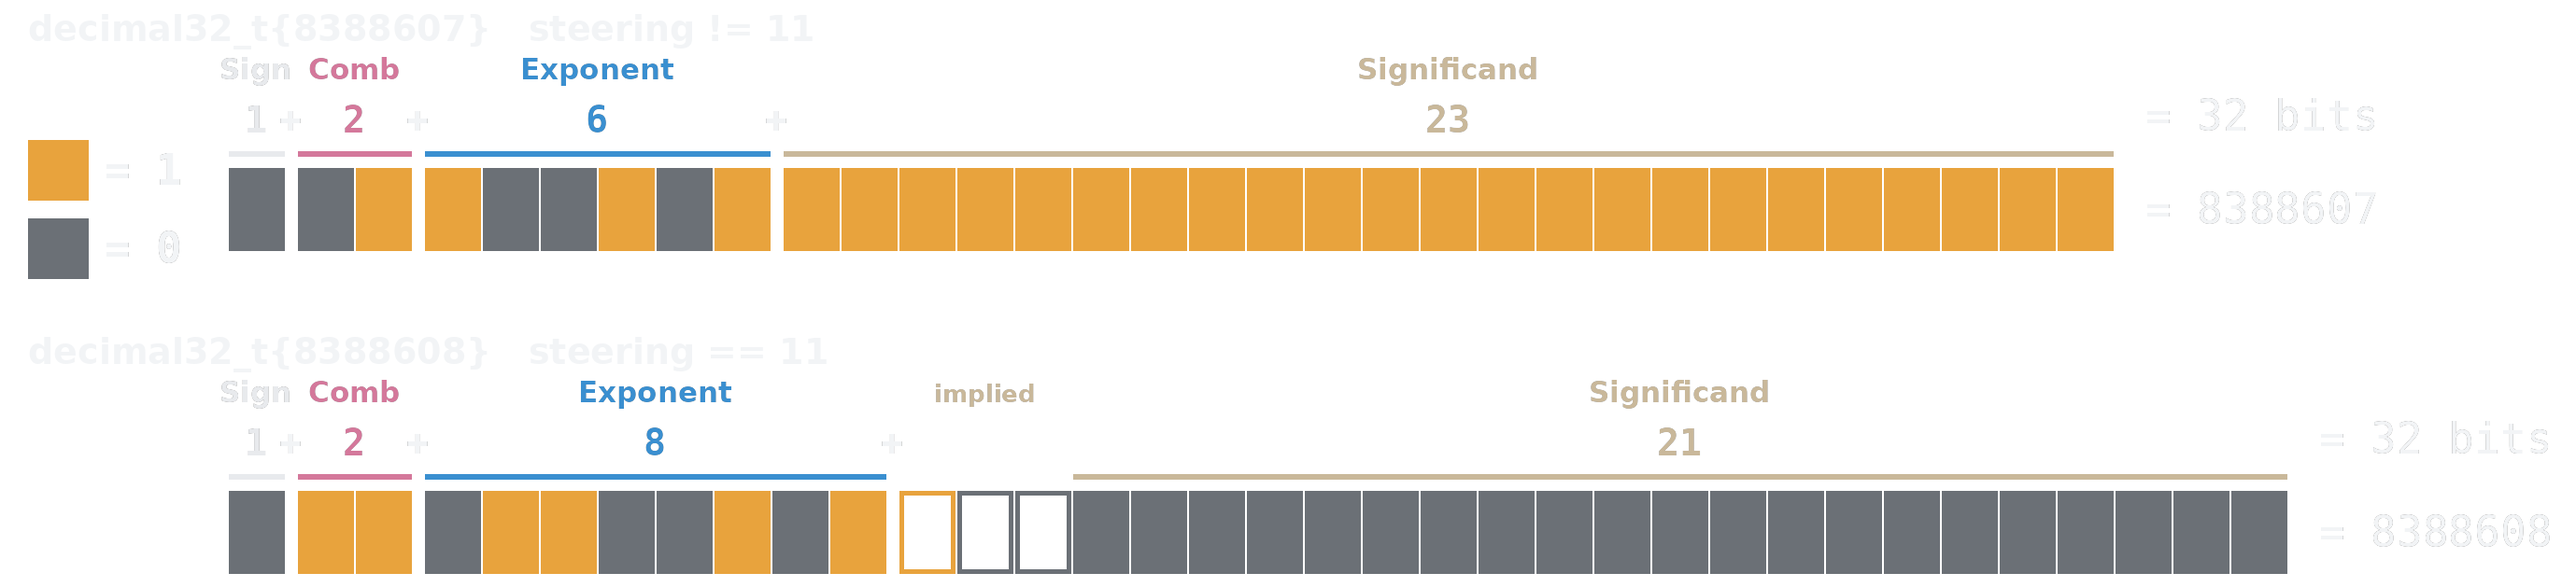
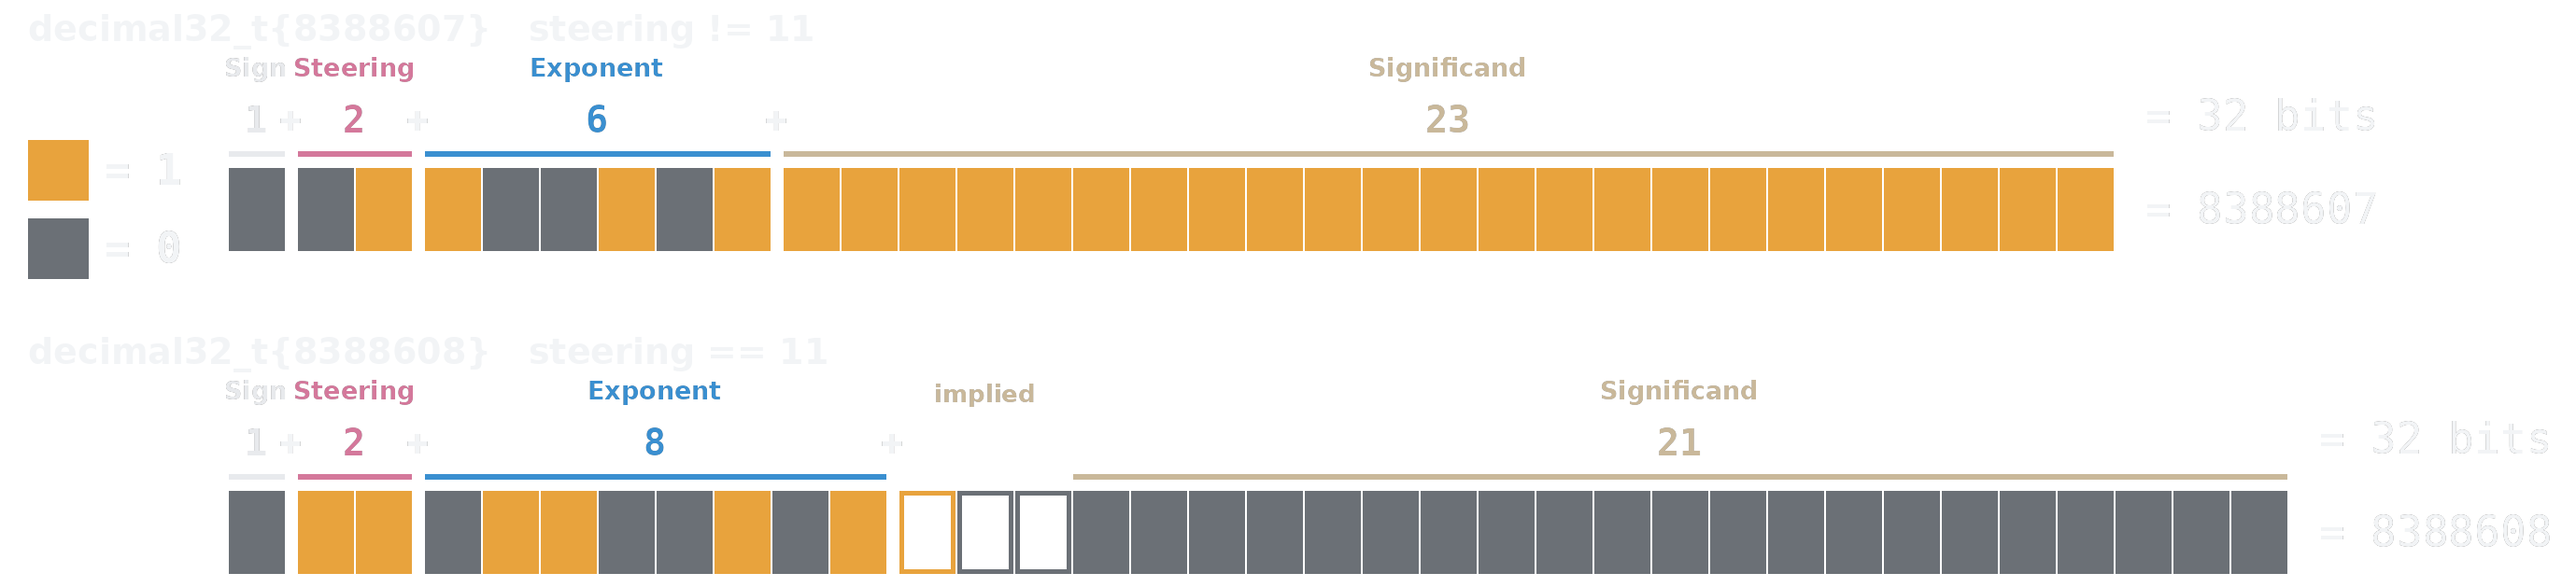
Better images

diff --git a/cppcon/img/bitstrip.py b/cppcon/img/bitstrip.py
@@ -17,7 +17,8 @@ as LaTeX so it can be coloured to match the fields and read at any size.
 
 Palette
     1        #E8A33D  amber          0        #6B7076  neutral grey
-    fields   Sign #E8EAED, Comb #D4789B, Exponent #3A8FD0, Significand #C9B89A
+    fields   Sign #E8EAED, Steering #D4789B, Exponent #3A8FD0,
+             Significand #C9B89A
 """
 import struct
 from PIL import Image, ImageDraw, ImageFont
@@ -37,11 +38,13 @@ TEXT = (242, 244, 246)
 ONE = (232, 163, 61)
 ZERO = (107, 112, 118)
 SIGN = (232, 234, 237)
-COMB = (212, 120, 155)
+STEER = (212, 120, 155)
 EXPO = (58, 143, 208)
 SIGD = (201, 184, 154)
 
-F_NAME = ImageFont.truetype(f"{FD}/DejaVuSans-Bold.ttf", 31)
+# 27pt is the largest uniform size at which no two field names collide on
+# any strip; "Sign" next to "Steering" over a two-cell field is the binding case
+F_NAME = ImageFont.truetype(f"{FD}/DejaVuSans-Bold.ttf", 27)
 F_GHOST = ImageFont.truetype(f"{FD}/DejaVuSans-Bold.ttf", 26)
 F_SIZE = ImageFont.truetype(f"{FD}/DejaVuSansMono-Bold.ttf", 40)
 F_RIGHT = ImageFont.truetype(f"{FD}/DejaVuSansMono.ttf", 46)
@@ -49,9 +52,9 @@ F_LEGEND = ImageFont.truetype(f"{FD}/DejaVuSansMono-Bold.ttf", 46)
 F_CAP = ImageFont.truetype(f"{FD}/DejaVuSans-Bold.ttf", 38)
 
 FLOAT32 = [(1, "Sign", SIGN), (8, "Exponent", EXPO), (23, "Significand", SIGD)]
-DEC32 = [(1, "Sign", SIGN), (2, "Comb", COMB), (6, "Exponent", EXPO),
+DEC32 = [(1, "Sign", SIGN), (2, "Steering", STEER), (6, "Exponent", EXPO),
          (23, "Significand", SIGD)]
-DEC32_S11 = [(1, "Sign", SIGN), (2, "Comb", COMB), (8, "Exponent", EXPO),
+DEC32_S11 = [(1, "Sign", SIGN), (2, "Steering", STEER), (8, "Exponent", EXPO),
              (21, "Significand", SIGD)]
 
 

diff --git a/cppcon/boost-decimal-cppcon.md b/cppcon/boost-decimal-cppcon.md
@@ -9,8 +9,9 @@ footer: IEEE 754 Decimals for C++ · Boost.Decimal · CppCon 2026
 
 ![](img/cover.png)
 
-^ Full-bleed title card. First words set up the next slide: "I want to
-^ start with three numbers."
+^ Welcome to IEEE 754 Decimals for C++ - The Boost Decimal library.
+
+^ I am Matt Borland and today we will discuss a relatively new IEEE type and Boost library
 
 ---
 
@@ -32,6 +33,10 @@ int main() {
 
 - 0.30000000000000004 and why is this?
 
+^ First we will start with a quiz. What is the output of the program on the screen?
+
+^ If you said 3 followed by 15 zeros then 4 you'd be correct. If not, we will see why this is the case
+
 ---
 
 # Where the extra came from
@@ -48,6 +53,12 @@ $$
 (-1)^{0} \times 1.10011001100110011001101_2 \times 2^{\,123-127} = \frac{13421773}{2^{27}} = 0.100000001490116119384765625
 $$
 
+^ Here are the bits of 0.1f which we will dive into greater detail later
+
+^ We see that 0.1 in base 10 is 0.00011 in base two with the last four digits infinitely repeating
+
+^ Since this never terminates it is actually slightly more than 0.1, but why does it not terminate?
+
 ---
 
 # The Reason? Five does not divide two
@@ -58,9 +69,15 @@ $$
 \frac{1}{10} \qquad 10 = 2 \times 5 \qquad 5 \nmid 2
 $$
 
-No number of bits fixes this. The problem is not precision, but **representability**.
+No number of bits fixes this. The problem is not precision, but *representability*.
 
 [^1]: Hardy & Wright, *An Introduction to the Theory of Numbers*, §9.2–9.3.
+
+^ The explanation is actually quite easy, it is that five doe not divide two
+
+^ As hardy and wright tell us "A fraction terminates in base *b* only if every prime factor of its denominator divides *b*"
+
+^ This is not a precision problem, this is a representation problem
 
 ---
 
@@ -73,6 +90,10 @@ These numerical types we are about to discuss are useful when these errors are u
 - Canonical example and many users are in the financial sector
 - Human-entered data and databases
 - Legal and regulatory compliance
+
+^ Since this is a representation problem the solution is not to simply add more precision such as using 128 bit floats
+
+^ *Read the build slide*
 
 ---
 
@@ -88,18 +109,23 @@ These numerical types we are about to discuss are useful when these errors are u
 - **IBM's libdfp** fills the library gap
 - **Intel** ships a library with its own types
 
-^ There's an active P-paper for rebasing <cmath> on C23 <math.h>, but it specifically excludes Decimal types
+^ *Read the build slide*
+
+^ There's an active P-paper for rebasing <cmath> on C23 <math.h>, but it specifically excludes Decimal types. 
+For those interested it is (3935R2 for those interested) 
 
 ---
 
 # Boost.Decimal
 
-- Header-only, **no dependencies**, C++14
+- Header-only, *no dependencies*, C++14
 - Portable: tested on `x86_64`, `x86_32`, ARM64, ARM32, s390x; emulated PPC64LE and Cortex-M
 - Complete Standard Library: `<cmath>`, `<charconv>`, `<format>`, etc.
 - 3rd Party Library Integration: Boost.Math, {fmt}
 - `constexpr` throughout
 - CUDA support for the types and much of the math
+
+^ *Read the build slide*
 
 ---
 
@@ -111,7 +137,9 @@ This talk will be divided into five parts
 2. The types - an overview of the different types provided by the library, and how to use them
 3. The Standard Library - similarities and differences with the STL
 4. Performance - Comparisons between Boost.Decimal, libstdc++, and Intel decimal types
-5. When to reach for it - Usecases from known users and takeaways 
+5. When to reach for it - Use cases from known users and takeaways 
+
+^ *Read the build slide*
 
 ---
 
@@ -125,19 +153,24 @@ This talk will be divided into five parts
 4. Performance
 5. When to reach for it
 
+^ Now lets take a look at the bits
+
 ---
 
 # A Binary Floating Point Refresher
 
+[.build-lists: true]
+[.list: bullet-character( ), bullet-indent(0)]
+
 ![inline](img/float_0p15625.png)
 
-$$
-\text{float value} \;=\; (-1)^{\text{sign}} \times 2^{\,\text{exponent} - \text{bias}} \times \text{significand}_2
-$$
+- $$ \text{float value} \;=\; (-1)^{\text{sign}} \times 2^{\,\text{exponent} - \text{bias}} \times \text{significand}_2 $$
 
-$$
-(-1)^{0} \;\times\; 2^{\,124-127} \;\times\; 1.01_2 \;=\; 1.25 \times 2^{-3} \;=\; 1.25 \div 8 \;=\; 0.15625
-$$
+- $$ (-1)^{0} \;\times\; 2^{\,124-127} \;\times\; 1.01_2 \;=\; 1.25 \times 2^{-3} \;=\; 1.25 \div 8 \;=\; 0.15625 $$
+
+- Section 3.4 of IEEE 754-2019
+
+^ Float value = ...
 
 ^ 1. sign bit 0, positive. 
 2. Exponent field 01111100 is 124; subtract the
@@ -157,13 +190,14 @@ bias of 127 to get 2 to the minus 3.
 
 - $$ 11110100001001_2 = 15625 $$
 - $$ 15625 \times 10^{-5} = 0.15625 $$
-- The high two bits of the exponent become the **combination field**
+- The high two bits of the exponent become the *steering bits*
 
+^ Here we can find 15625 in the significand since it's encoded like an integer would be
 
-^ Now we've add the combination field. The way that decimal32_t represents this value is 15625 x 10^-5. 
-You can find 15625 in the lower half of the significand, and then we will talk about the rest
+^ Then the exponent gives 10 ^-5 forming 0.15625
 
-^ 2 less exponent bits for the 2 combination field bits
+^ As you can see we've given up the high two bits of the exponent for what are referred to as steering bit. 
+Together with the exponent this is called the *combination field*. What is this for though?
 
 ---
 
@@ -182,20 +216,14 @@ decimal32_t holds 7 decimal digits -> max significand = 9,999,999
 You need 24 bits, but sign and exponent leave you with only 23.
 ```
 
-^ STEP 1 — seven digits, so the largest significand is 9,999,999.
-^
-^ STEP 2 — that needs 24 bits.
-^
-^ STEP 3 — and you have 23.
-^
-^ "Ten is not a power of two. The fields do not divide evenly. Everything
-^ strange about this encoding is downstream of that one sentence. The
-^ combination field is how you buy back the twenty-fourth bit."
+^ JUST READ THE SLIDE*
 
 ---
 
 # Four cases
 
+[.build-lists: true]
+[.list: bullet-character( ), bullet-indent(0)]
 [.code-highlight: 1-2]
 [.code-highlight: 1-3]
 [.code-highlight: 1-4]
@@ -203,15 +231,23 @@ You need 24 bits, but sign and exponent leave you with only 23.
 
 ```
 steer                 layout                              sig. bits
- 00    s | 00 | eeeeeeee | ttttttttttttttttttttttt            23
- 01    s | 01 | eeeeeeee | ttttttttttttttttttttttt            23
- 10    s | 10 | eeeeeeee | ttttttttttttttttttttttt            23
+ 00    s | 00 | eeeeee   | ttttttttttttttttttttttt            23
+ 01    s | 01 | eeeeee   | ttttttttttttttttttttttt            23
+ 10    s | 10 | eeeeee   | ttttttttttttttttttttttt            23
  11    s | 11 | eeeeeeee | [100] + ttttttttttttttttttttt      24
 ```
 
-100 + 21 trailing 1s = 10,485,759 > 9,999,999
+- $$100_2$$ + 21 trailing 1s = 10,485,759 > 9,999,999
 
-^ Infinities and NaNs are represented using the high bits of the exponent and payload remains
+- Non-finite numbers also encode with 11 steering bits
+
+- Example: infinity = 0 | 11 | 1100 + payload
+
+^ Read the slide
+
+^ The last two 0 bits for the infinity are used to make a quiet nan or a signaling nan
+
+^ So what does this look like in practice?
 
 ---
 
@@ -227,15 +263,7 @@ $$
 8388608 = \underbrace{100}_{\text{implied}}\,000000000000000000000_2 \qquad 21 \text{ stored bits}
 $$
 
-^ This is the slide the last three earned. Say almost nothing.
-^
-^ "Add one to eight million three hundred eighty-eight thousand six hundred
-^ and seven. The exponent field grows by two cells. The significand shrinks
-^ by two and picks up an implied one-zero-zero. Same value plus one. Total
-^ structural reorganization."
-^
-^ If you want a laugh: "if you were hoping the bit pattern was monotonic in
-^ the value, this is where that hope goes."
+^ As you can see incrementing by one can actually 
 
 ---
 
@@ -246,14 +274,8 @@ $$
 Instead of an infinite repeating sequence, we get an exact value
 
 
-^ Deliberate callback — they saw the top strip eight minutes ago and have
-^ been carrying it since.
-^
-^ "Same width. Thirty-two bits on both sides. The bottom one contains the
-^ number I asked for, and it contains it exactly. One times ten to the
-^ minus one."
-^
-^ Bias is 101, so a biased exponent of 100 is q = -1. Have it ready.
+^ Returning to our earlier example of 0.1 we can now see how it is exactly represented in the decimal type.
+We have a clear 1 in the significand, and then a biased exponent which gives us 10^-1 resulting in an exact 0.1
 
 ---
 
@@ -273,17 +295,16 @@ constexpr std::uint32_t to_dpd_d32(decimal32_t val)      noexcept;
 constexpr decimal32_t   from_dpd_d32(std::uint32_t bits) noexcept;
 ```
 
-^ Plus generic to_bid/to_dpd/from_bid<T>/from_dpd<T>, which is what every
-^ strip in this section actually called.
-^
-^ Be precise if asked about hardware: the conversions are encoding
-^ interchange. The library is not tested against hardware decimal units,
-^ because they are not readily accessible to test against — s390x is in
-^ CI for endianness, not for its DFU.
+^ For the sake of completeness there are actually two specified encodings for decimal floating point types
+
+^ Read the slide
 
 ---
 
 # BID vs DPD for our adjacent integers
+[.code-highlight: 1]
+[.code-highlight: 1-2]
+[.code-highlight: 1,3]
 
 ```
                           BID           DPD
@@ -291,18 +312,16 @@ decimal32_t{8388607}  0x32FFFFFF    0x6A573B07
 decimal32_t{8388608}  0x6CA00000    0x6A573B08
 ```
 
-**BID** rebuilds the word.
+*BID* rebuilds the word. 
+*DPD* increments by one.
 
-**DPD** increments by one.
+^ Here is our edge case integer where the steering bits change
 
-^ Hex is right here, because the delta IS the point.
-^
-^ "DPD packs three decimal digits into every ten-bit declet, so 607 and 608
+^ DPD packs three decimal digits into every ten-bit declet, so 607 and 608
 ^ live in the low bits and nothing else moves. BID treats the significand as
-^ one binary integer, so changing the integer changes the encoding."
-^
-^ "Digit locality is what you want when digits are wired into silicon. A
-^ single binary integer is what you want in software."
+^ one binary integer, so changing the integer changes the encoding.
+
+^ The benefit to this design is that digit locality is what you want when digits are in silicon
 
 ---
 
@@ -315,10 +334,20 @@ decimal32_t{8388608}  0x6CA00000    0x6A573B08
 
 ---
 
-# One value. Seven encodings.
+[.build-lists: true]
+[.code-highlight: none]
+[.code-highlight: 1]
+[.code-highlight: 2]
+[.code-highlight: 3]
+[.code-highlight: 4]
+[.code-highlight: all]
 
-> The set of representations a floating-point number maps to is called the floating-point number's cohort.
--- IEEE 754-2008
+# One value. Seven Representations.
+
+> "cohort: The set of all floating-point representations that represent a given floating-point number in a given floating-point format. 
+In this context −0 and +0 are considered distinct and are in different cohorts."
+-- IEEE 754-2019
+
 
 ```
 decimal32_t{      3,  2}   ->   0x33800003
@@ -328,34 +357,28 @@ decimal32_t{3000000, -4}   ->   0x30ADC6C0
 ```
 
 - All compare equal with `operator==`
-- All **hash equal**
+- All *hash equal*
 - None are bitwise equal
 
-^ Seven members in 300's cohort, because seven digits give 3 exactly
-^ seven stops: 3 times ten squared out to 3000000 times ten to the
-^ minus four. Four shown, for space.
-^
-^ Binary has exactly one way to write each value, so nothing in
-^ anyone's experience prepares them for this.
-^
-^ "operator== says these are the same number. std::hash agrees, because it
-^ has to. memcmp does not."
-^
-^ Do not resolve it — Part 2 is where charconv pays this off.
+^ *READ AND BUILD THE SLIDE*
 
 ---
 
+[.build-lists: true]
+
 # Normalizing
 
-A value is **normalized** when the cohort effect is removed by appending zeros to the significand and reducing the exponent until it carries the type's full precision:
+- A value is *normalized* when the cohort effect is removed by appending zeros to the significand and reducing the exponent until it carries the type's full precision:
 
-$$
-3 \times 10^{2} \quad \longrightarrow \quad 3000000 \times 10^{-4}
-$$
+- Example: $$ 3 \times 10^{2} \quad \longrightarrow \quad 3000000 \times 10^{-4} $$
 
-Every arithmetic operation and every comparison has to handle the effects of cohorts.
+- Every arithmetic operation and every comparison has to handle the effects of cohorts.
 
-This is among the most expensive parts of these operations.
+- This is among the most expensive parts of these operations.
+
+^ Read the slide
+
+^ Remember from our last slide that -0 and +0 are considered to be in distinct and in different cohorts so this has to be handled as well
 
 ---
 
